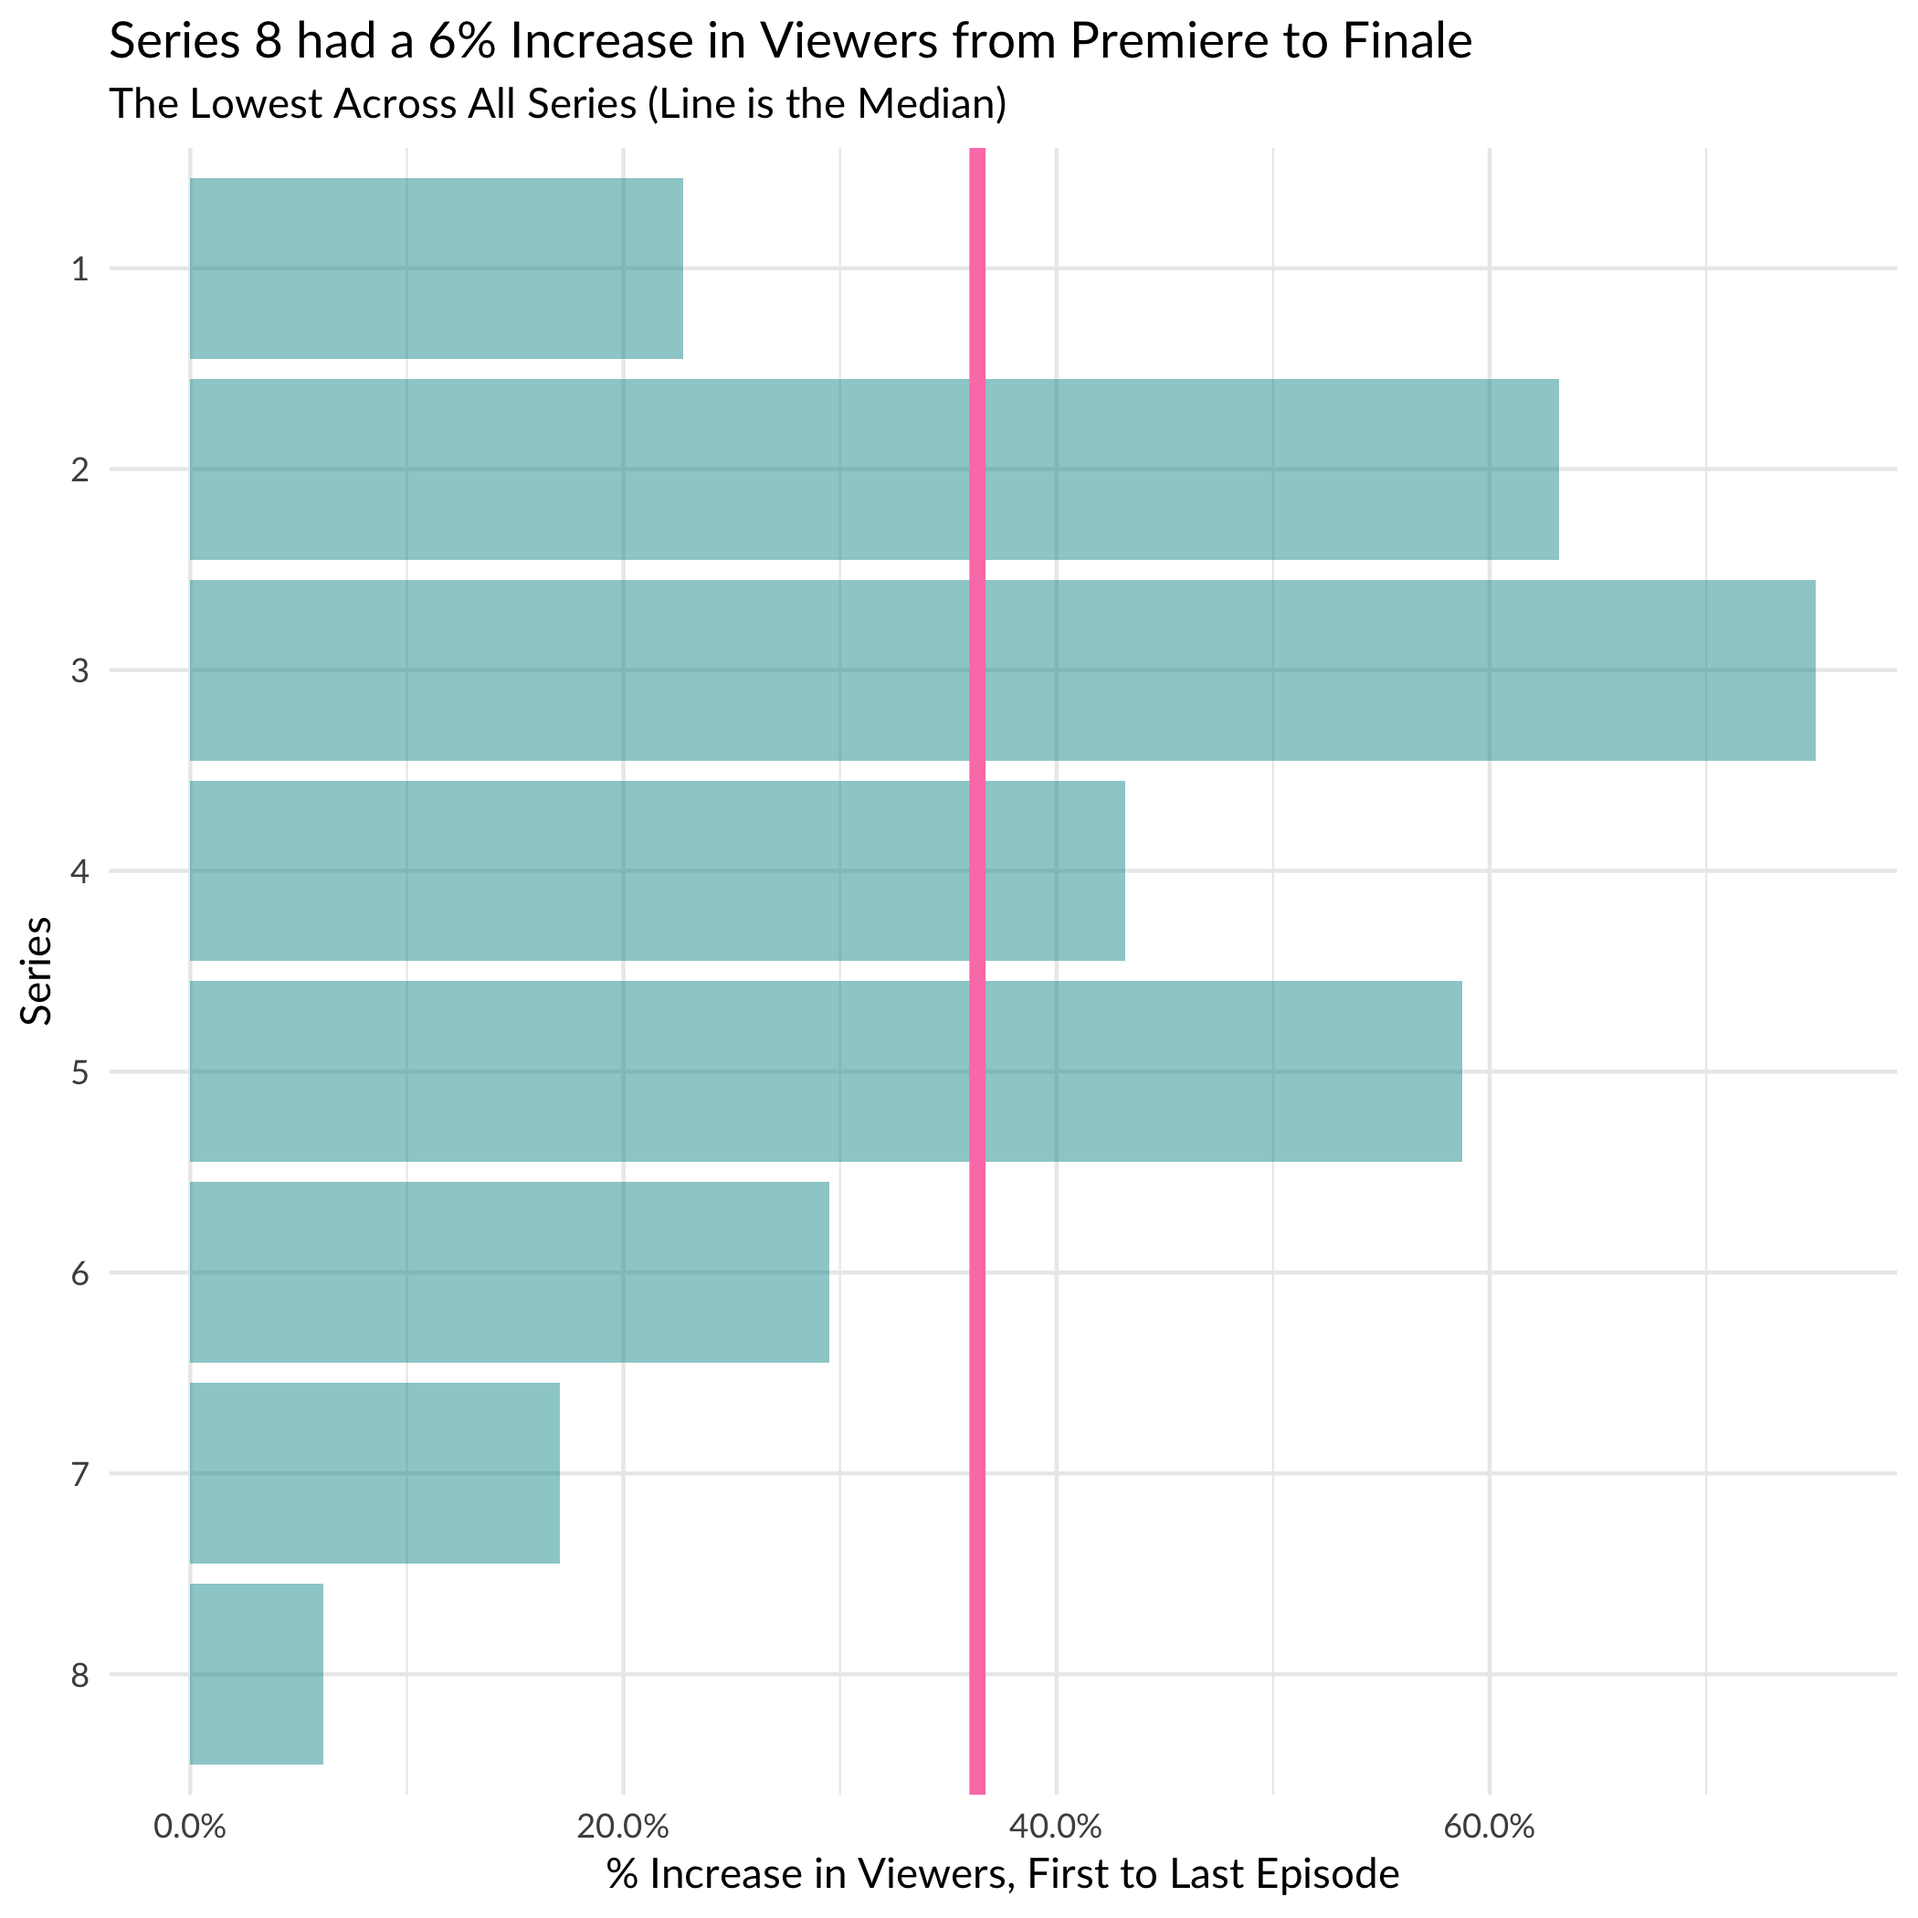
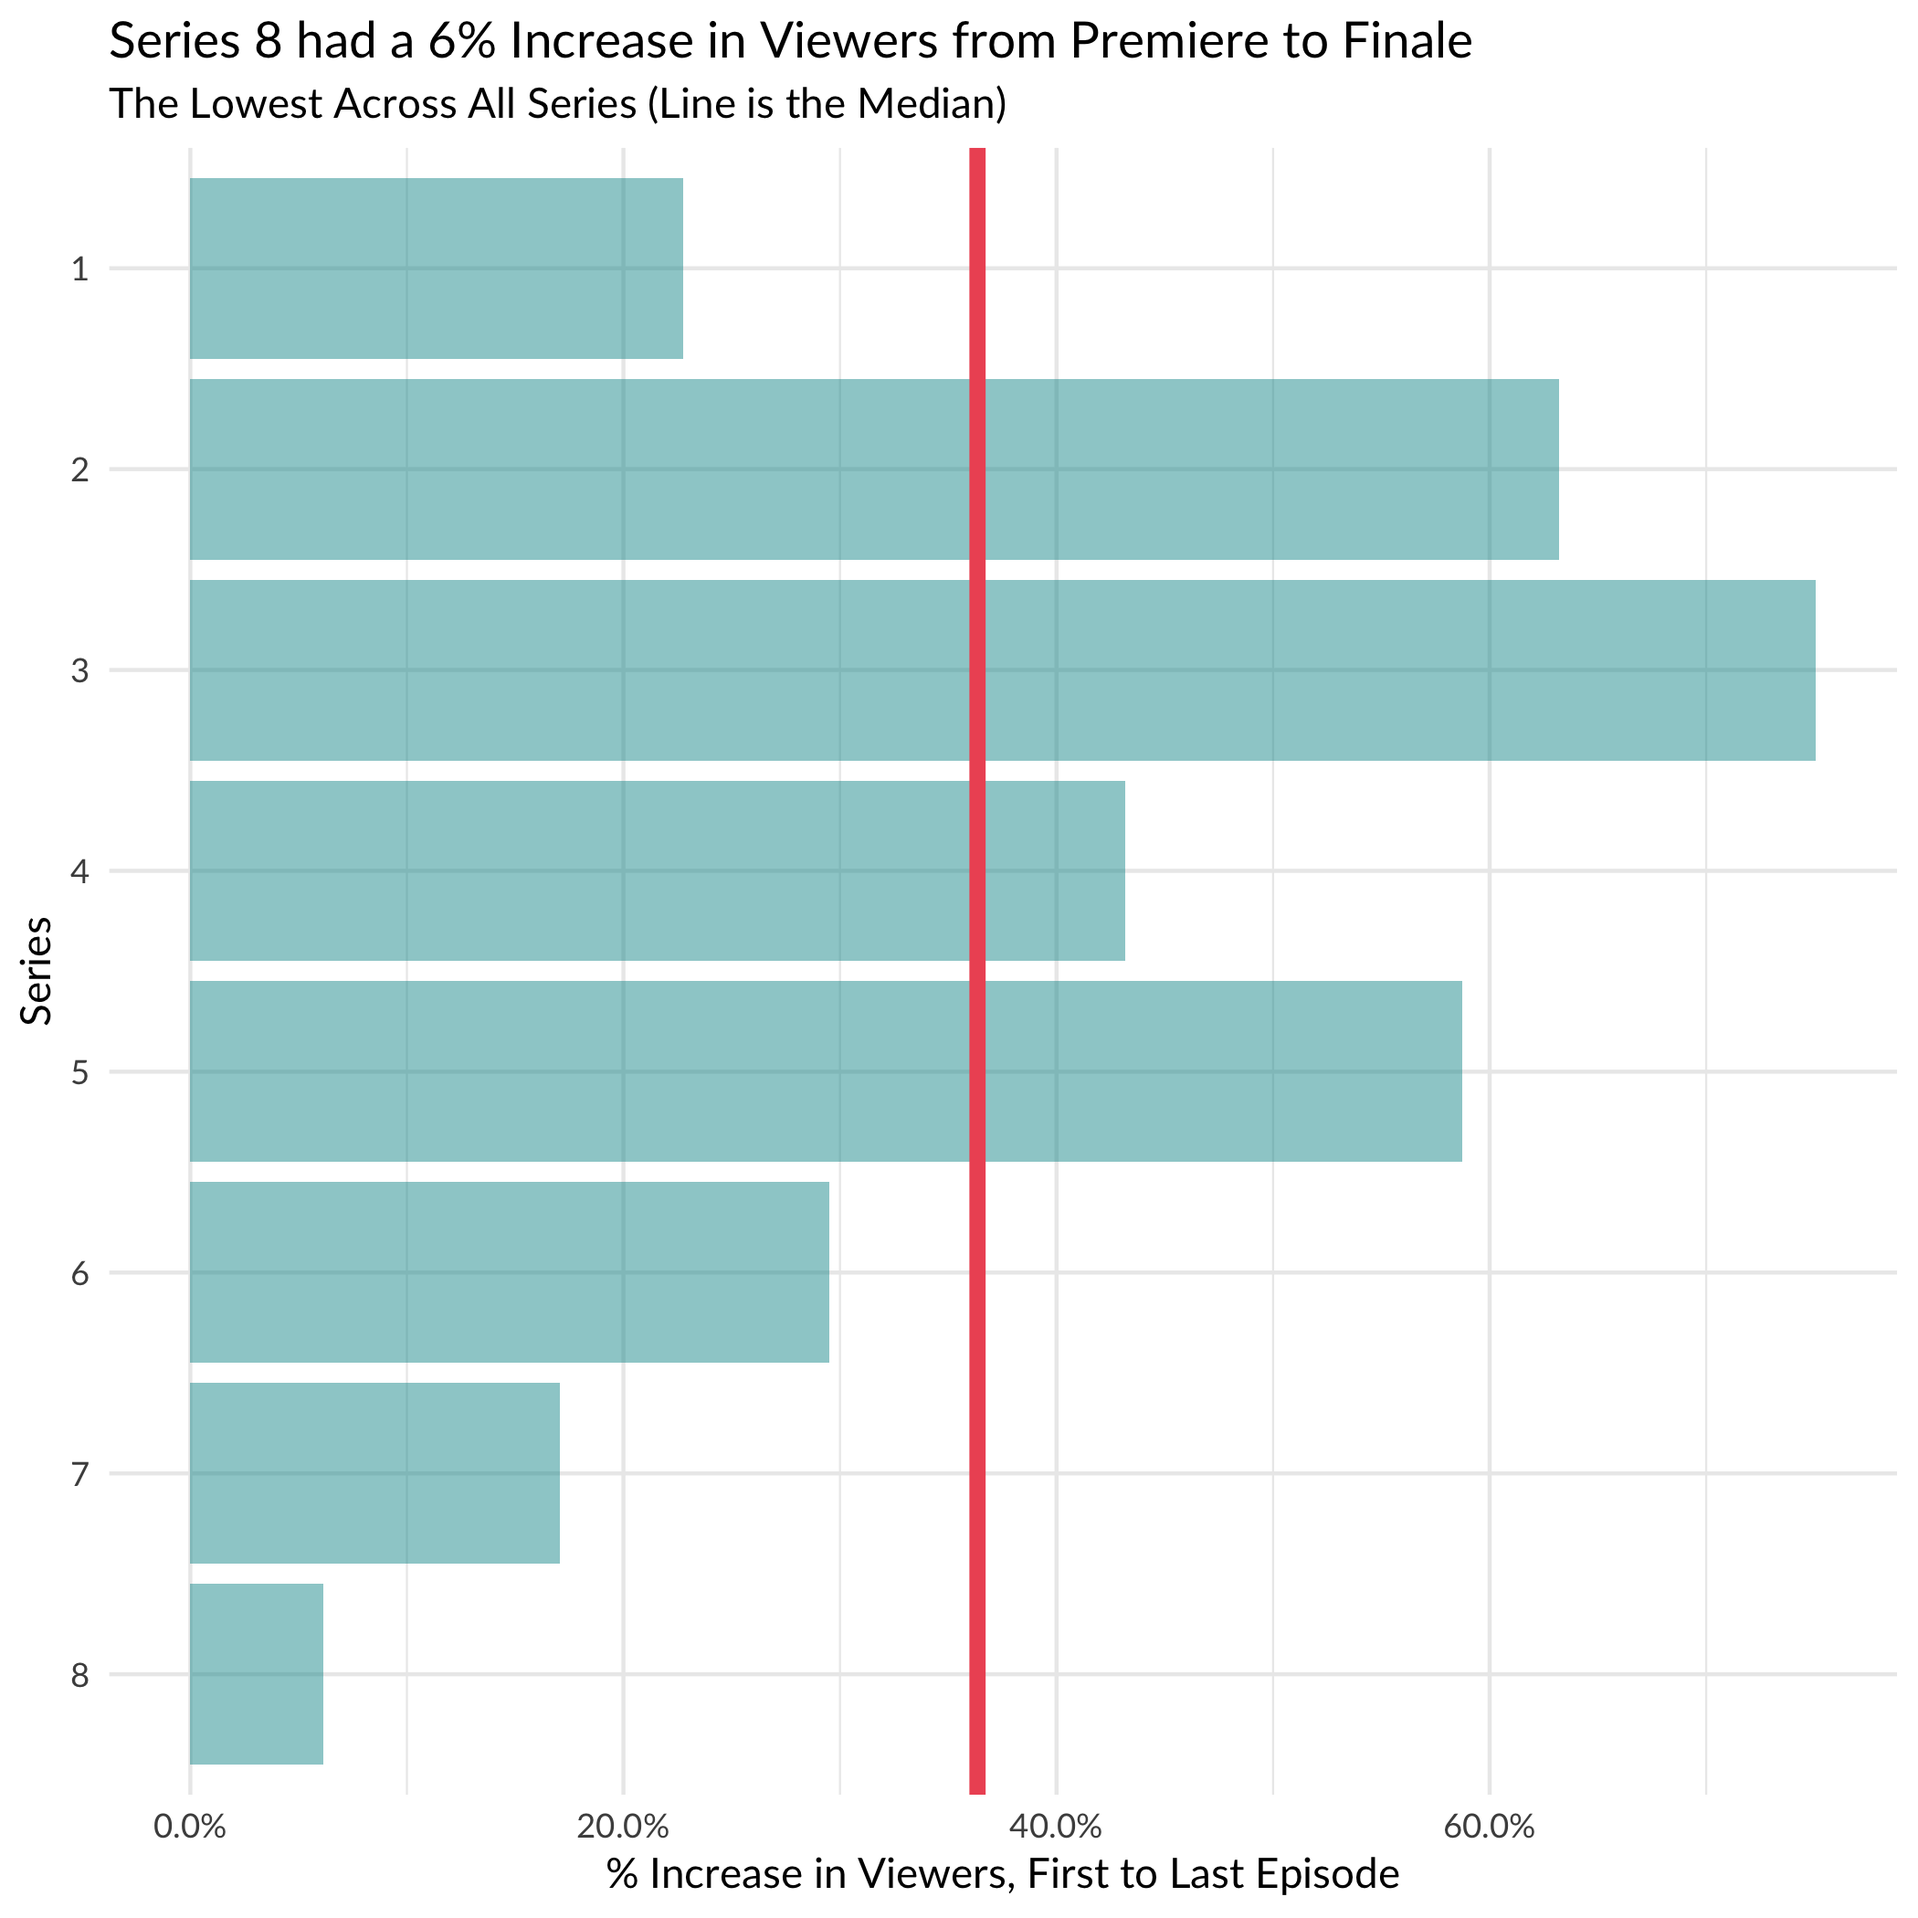
last minute updates

Changed region(s): [[0.4952, 0.0619, 0.5262, 0.9286]]

diff --git a/uo-tidy-bakeoff/slides.html b/uo-tidy-bakeoff/slides.html
@@ -27,7 +27,7 @@ class: center, middle, inverse
 
 # Inspired by:
 
-## [Flowing Data](https://flowingdata.com/2017/01/24/one-dataset-visualized-25-ways/)
+## [Flowing Data: One Dataset Visualized 25 Ways](https://flowingdata.com/2017/01/24/one-dataset-visualized-25-ways/)
 
 &lt;img src="img/flowing-data-inspo.png" width="70%" style="display: block; margin: auto;" /&gt;
 
@@ -35,40 +35,68 @@ class: center, middle, inverse
 ---
 class: center, middle, inverse
 
-😄
+## Disclaimers
 
-1. I am a data visualization practioner. 
+--
 
-1. I offer what I hope are well-reasoned opinions here, but 
+I am a data visualization .whisper[practioner]. 
+
+--
+
+I offer what I hope are well-reasoned opinions here, but obviously .whisper[YMMV].
+
+--
+
+I do not claim that all of the following are .whisper[good] nor .whisper[publication-worthy] visualizations (for those viewing these slides without narrative)
 
 ![](https://media.giphy.com/media/3oEjHIs0EQ4nxN4YPC/giphy.gif)
 
 ---
 class:middle, inverse, center
 
-## My goals for today
+## My messages for today
 
 ---
-# Change the way (you might) think about tidy data
+class:middle, inverse, center
 
-- .whisper[Tidy data is a place to start]
+## tidiness `\(\neq\)` .shout[godliness]
 
-Subgoals
-
-- .shout[labeling!]
-- .onfire[lose the defaults!]
+![](https://media.giphy.com/media/3o6vXSvvyxyzJMVqGk/giphy.gif)
 
 ---
-# But also...
+class:middle, inverse, center
 
-Don't be afraid to change those `ggplot2` defaults! 
+## tidiness = .whisper[nimbleness]
+
+![](https://media.giphy.com/media/3o7TKFVl2L6P6P7zqM/giphy.gif)
+
+---
+class:middle, inverse, center
+
+## tidy `\(\neq\)` .shout[done]
+
+![](https://media.giphy.com/media/l41YtBXZvSRdgqq7m/giphy.gif)
+
+---
+class:middle, inverse, center
+
+&lt;img src="img/tidyverse_wrangle.png" width="70%" style="display: block; margin: auto;" /&gt;
+
+---
+class: center, middle, inverse
+
+## But also...
+
+Don't be afraid to chop out those `ggplot2` defaults! 
 
 ![](https://media.giphy.com/media/26BoDD0vgBWAipgJ2/giphy.gif)
 
 ---
-# But also...
+class: center, middle, inverse
 
-Think about "chart junk"
+## But also...
+
+It's all in the details.
 
 ![](https://media.giphy.com/media/l0MYrsYIulHYo0Bhe/giphy.gif)
 
@@ -81,7 +109,6 @@ I'll use all of the following:
 ```r
 library(tidyverse)
 library(bakeoff) # data + colors!
-library(extrafont) # fonts!
 ```
 
 ---
@@ -131,7 +158,7 @@ class: center, middle, inverse
 
 .left-column[
 1. Which .whisper[dataset]?
-1. Which .shout[geom]?
+1. Which .whisper[geom]?
 1. What .whisper[variable] is mapped on the .shout[x-axis]?
 1. What .whisper[variable] is mapped on the .shout[y-axis]?
 1. What .whisper[variable] is mapped to .shout[color]?
@@ -212,7 +239,7 @@ class: center, middle, inverse
 
 .left-column[
 1. Which .whisper[dataset]?
-1. Which .whisper[geoms]?
+1. Which .whisper[3 geoms]?
 1. What .whisper[variable] is .shout[facet wrapped]?
 1. What .whisper[variable] is mapped on the .shout[x-axis]?
 1. What .whisper[variable] is mapped on the .shout[y-axis]?
@@ -229,17 +256,17 @@ class: center, middle, inverse
 
 ```r
 plot_off2 &lt;- ratings %&gt;% 
-  group_by(series) %&gt;% 
-  mutate(series_avg = mean(viewers_7day, na.rm = TRUE),
-         diff_avg = viewers_7day - series_avg)%&gt;% 
+* group_by(series) %&gt;%
+* mutate(series_avg = mean(viewers_7day, na.rm = TRUE),
+*        diff_avg = viewers_7day - series_avg) %&gt;%
   filter(max(episode) == 10) %&gt;% 
   mutate(episode = as.factor(episode)) %&gt;% 
   select(episode, viewers_7day, series, diff_avg, series_avg)
 
 *ggplot(plot_off2, aes(x = episode, y = viewers_7day, color = diff_avg)) +
-  geom_hline(aes(yintercept = series_avg), alpha = .5) +
-  geom_point() +
-  geom_segment(aes(xend = episode, yend = series_avg)) +
+* geom_hline(aes(yintercept = series_avg), alpha = .5) +
+* geom_point() +
+* geom_segment(aes(xend = episode, yend = series_avg)) +
 * facet_wrap(~series) +
   scale_color_viridis_c(option="plasma", begin = 0, 
                       end = .8, guide = FALSE) +
@@ -286,11 +313,11 @@ line_labels &lt;- ratings %&gt;%
   filter(episode == max(episode)) %&gt;% 
   select(series, x_position = episode, y_position = viewers_7day)
 
-ggplot(ratings, aes(x = as.factor(episode), 
-                    y = viewers_7day,
-                    color = as.factor(series), 
-                    group = series)) +
-  geom_line() +
+*ggplot(ratings, aes(x = as.factor(episode),
+*                   y = viewers_7day,
+*                   color = as.factor(series),
+*                   group = series)) +
+* geom_line() +
   scale_color_bakeoff(guide = FALSE) +
   labs(color = "Series", x = "Episode") +
   geom_text(data = line_labels, aes(label = series,
@@ -377,8 +404,8 @@ class: center, middle, inverse
 # some wrangling here
 plot_off5 &lt;- ratings %&gt;% 
   select(series, episode, viewers_7day) %&gt;% 
-  group_by(series) %&gt;% 
-  filter(episode == 1 | episode == max(episode)) %&gt;% 
+* group_by(series) %&gt;%
+* filter(episode == 1 | episode == max(episode)) %&gt;%
 * mutate(episode = recode(episode, `1` = "first", .default = "last")) %&gt;%
   ungroup()
 
@@ -546,8 +573,8 @@ plot_off8 &lt;- ratings %&gt;%
   select(series, episode, viewers_7day) %&gt;% 
   group_by(series) %&gt;% 
   filter(episode == 1 | episode == max(episode)) %&gt;% 
-  mutate(episode = recode(episode, `1` = "first", .default = "last")) %&gt;%  
-  spread(episode, viewers_7day) %&gt;% 
+* mutate(episode = recode(episode, `1` = "first", .default = "last")) %&gt;%
+* spread(episode, viewers_7day) %&gt;%
 * mutate(finale_bump = last - first)
 
 # plot
@@ -608,7 +635,7 @@ plot_off9 &lt;- ratings %&gt;%
 *                     y = pct_change)) +
 * geom_col(fill = bakeoff_cols("baltic"), alpha = .5) +
   geom_hline(aes(yintercept = median(pct_change, na.rm = TRUE)), 
-             color = bakeoff_cols("magenta"),
+             color = bakeoff_cols("berry"),
              lwd = 2) +
   labs(x = "Series", y = "% Increase in Viewers, First to Last Episode") +
   ggtitle("Series 8 had a 6% Increase in Viewers from Premiere to Finale",
@@ -636,10 +663,10 @@ class: center, middle, inverse
 
 ```r
 # plot
-ggplot(plot_off9, aes(x = fct_rev(series), 
-                             y = pct_change)) +
-  geom_point(color = bakeoff_cols("bluesapphire"), size = 2) +
-  geom_segment(aes(xend = fct_rev(series), yend = 0), color = bakeoff_cols("bluesapphire")) +
+*ggplot(plot_off9, aes(x = fct_rev(series),
+*                     y = pct_change)) +
+* geom_point(color = bakeoff_cols("bluesapphire"), size = 2) +
+* geom_segment(aes(xend = fct_rev(series), yend = 0), color = bakeoff_cols("bluesapphire")) +
   geom_text(aes(label = scales::percent(pct_change)), hjust = -.25) +
   labs(x = "Series", y = "% Change in Viewers from First to Last Episode") +
   ggtitle("Percent Increase in Viewers was the Smallest for Series 8",
@@ -669,10 +696,10 @@ class: center, middle, inverse
 
 
 ```r
-ggplot(plot_off8, aes(x = first, y = last)) +
-  geom_point() +
-  geom_smooth(se = FALSE, color = '#EBBFDD') +
-  geom_abline(slope = 1, intercept = 0, color = "gray", alpha = .5) +
+*ggplot(plot_off8, aes(x = first, y = last)) +
+* geom_point() +
+* geom_smooth(se = FALSE, color = '#EBBFDD') +
+* geom_abline(slope = 1, intercept = 0, color = "gray", alpha = .5) +
   geom_text(aes(label = series), hjust = -1) +
   labs(x = "Premiere Episode 7-day Viewers (millions)",
        y = "Finale Episode 7-day Viewers (millions)") +

diff --git a/uo-tidy-bakeoff/css/my-theme.css b/uo-tidy-bakeoff/css/my-theme.css
@@ -7,9 +7,17 @@ h1, h2, h3 {
   color: #126180;
 }
 
-.shout { color: #ee5863; }
+.shout { color: #ee5863; 
+font-family: 'Lato', sans-serif;
+font-weight: bold;
+}
 
-.whisper { color: #84d6d3; }
+.whisper { color: #84d6d3; 
+font-family: 'Cormorant Garamond', serif;
+font-style: italic;
+font-weight: bold;
+font-size: larger;
+}
 
 .onfire { color: #ff7436; }
 
